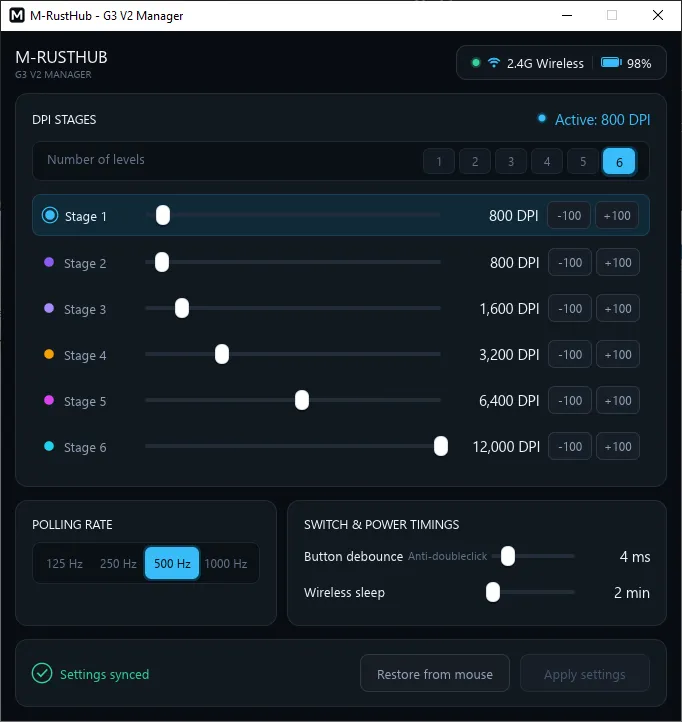
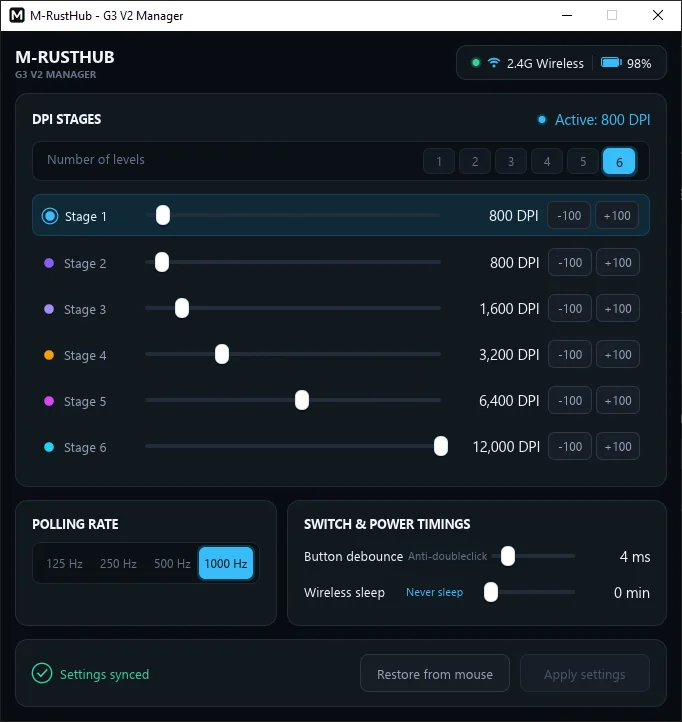
ui upd

diff --git a/src/gui/mod.rs b/src/gui/mod.rs
@@ -50,14 +50,17 @@ const STAGE_COLORS: [Color32; 6] = [
 // ============================================================================
 // TYPOGRAPHY / FONTS
 // ============================================================================
+pub fn font_family_bold() -> egui::FontFamily {
+    egui::FontFamily::Name("Bold".into())
+}
 fn font_app_title() -> egui::FontId {
-    egui::FontId::new(16.5, egui::FontFamily::Proportional)
+    egui::FontId::new(16.5, font_family_bold())
 }
 fn font_device_sub() -> egui::FontId {
-    egui::FontId::new(10.0, egui::FontFamily::Proportional)
+    egui::FontId::new(10.0, font_family_bold())
 }
 fn font_section_title() -> egui::FontId {
-    egui::FontId::new(12.5, egui::FontFamily::Proportional)
+    egui::FontId::new(12.5, font_family_bold())
 }
 fn font_control_text() -> egui::FontId {
     egui::FontId::new(13.0, egui::FontFamily::Proportional)
@@ -67,6 +70,44 @@ fn font_dpi_value() -> egui::FontId {
 }
 fn font_small_caption() -> egui::FontId {
     egui::FontId::new(11.0, egui::FontFamily::Proportional)
+}
+
+pub fn setup_fonts(ctx: &egui::Context) {
+    let mut fonts = egui::FontDefinitions::default();
+    if let Ok(data) = std::fs::read("C:\\Windows\\Fonts\\segoeui.ttf") {
+        fonts.font_data.insert(
+            "segoe_ui".to_owned(),
+            std::sync::Arc::new(egui::FontData::from_owned(data)),
+        );
+        fonts
+            .families
+            .entry(egui::FontFamily::Proportional)
+            .or_default()
+            .insert(0, "segoe_ui".to_owned());
+    }
+
+    if let Ok(data_bold) = std::fs::read("C:\\Windows\\Fonts\\segoeuib.ttf") {
+        fonts.font_data.insert(
+            "segoe_ui_bold".to_owned(),
+            std::sync::Arc::new(egui::FontData::from_owned(data_bold)),
+        );
+        fonts
+            .families
+            .entry(font_family_bold())
+            .or_default()
+            .push("segoe_ui_bold".to_owned());
+    }
+
+    if let Some(prop_fonts) = fonts.families.get(&egui::FontFamily::Proportional).cloned() {
+        let bold_entry = fonts.families.entry(font_family_bold()).or_default();
+        for f in prop_fonts {
+            if !bold_entry.contains(&f) {
+                bold_entry.push(f);
+            }
+        }
+    }
+
+    ctx.set_fonts(fonts);
 }
 
 fn format_dpi(dpi: u16) -> String {
@@ -949,20 +990,7 @@ impl App {
 
         cc.egui_ctx.set_visuals(visuals);
 
-        // Load modern native system font (Segoe UI)
-        let mut fonts = egui::FontDefinitions::default();
-        if let Ok(data) = std::fs::read("C:\\Windows\\Fonts\\segoeui.ttf") {
-            fonts.font_data.insert(
-                "segoe_ui".to_owned(),
-                std::sync::Arc::new(egui::FontData::from_owned(data)),
-            );
-            fonts
-                .families
-                .entry(egui::FontFamily::Proportional)
-                .or_default()
-                .insert(0, "segoe_ui".to_owned());
-            cc.egui_ctx.set_fonts(fonts);
-        }
+        setup_fonts(&cc.egui_ctx);
 
         let (tx_req, rx_req) = channel();
         let (tx_resp, rx_resp) = channel();
@@ -1287,7 +1315,7 @@ impl App {
                                             ui.add_space(6.0);
 
                                             let (dot_rect, _) = ui.allocate_exact_size(Vec2::new(14.0, 14.0), egui::Sense::hover());
-                                            let c = dot_rect.center();
+                                            let c = Pos2::new(dot_rect.center().x, dot_rect.center().y + 1.5);
                                             if has_glow {
                                                 ui.painter().circle_filled(c, 5.5, COLOR_ACCENT_GLOW);
                                             }
@@ -1372,7 +1400,7 @@ impl App {
                                                 };
                                                 let stage_name = format!("Stage {}", i + 1);
                                                 row_ui.painter().text(
-                                                    Pos2::new(stage_rect.min.x + 22.0, stage_rect.center().y),
+                                                    Pos2::new(stage_rect.min.x + 22.0, stage_rect.center().y - 1.5),
                                                     egui::Align2::LEFT_CENTER,
                                                     &stage_name,
                                                     font_control_text(),
@@ -2494,19 +2522,7 @@ mod tests {
     #[test]
     fn test_window_height_min_inner_size_compliance() {
         let ctx = egui::Context::default();
-        let mut fonts = egui::FontDefinitions::default();
-        if let Ok(data) = std::fs::read("C:\\Windows\\Fonts\\segoeui.ttf") {
-            fonts.font_data.insert(
-                "segoe_ui".to_owned(),
-                std::sync::Arc::new(egui::FontData::from_owned(data)),
-            );
-            fonts
-                .families
-                .entry(egui::FontFamily::Proportional)
-                .or_default()
-                .insert(0, "segoe_ui".to_owned());
-            ctx.set_fonts(fonts);
-        }
+        setup_fonts(&ctx);
         for stages in 1..=6 {
             let mut app = create_test_app();
             app.config.dpi_stages_count = stages;
